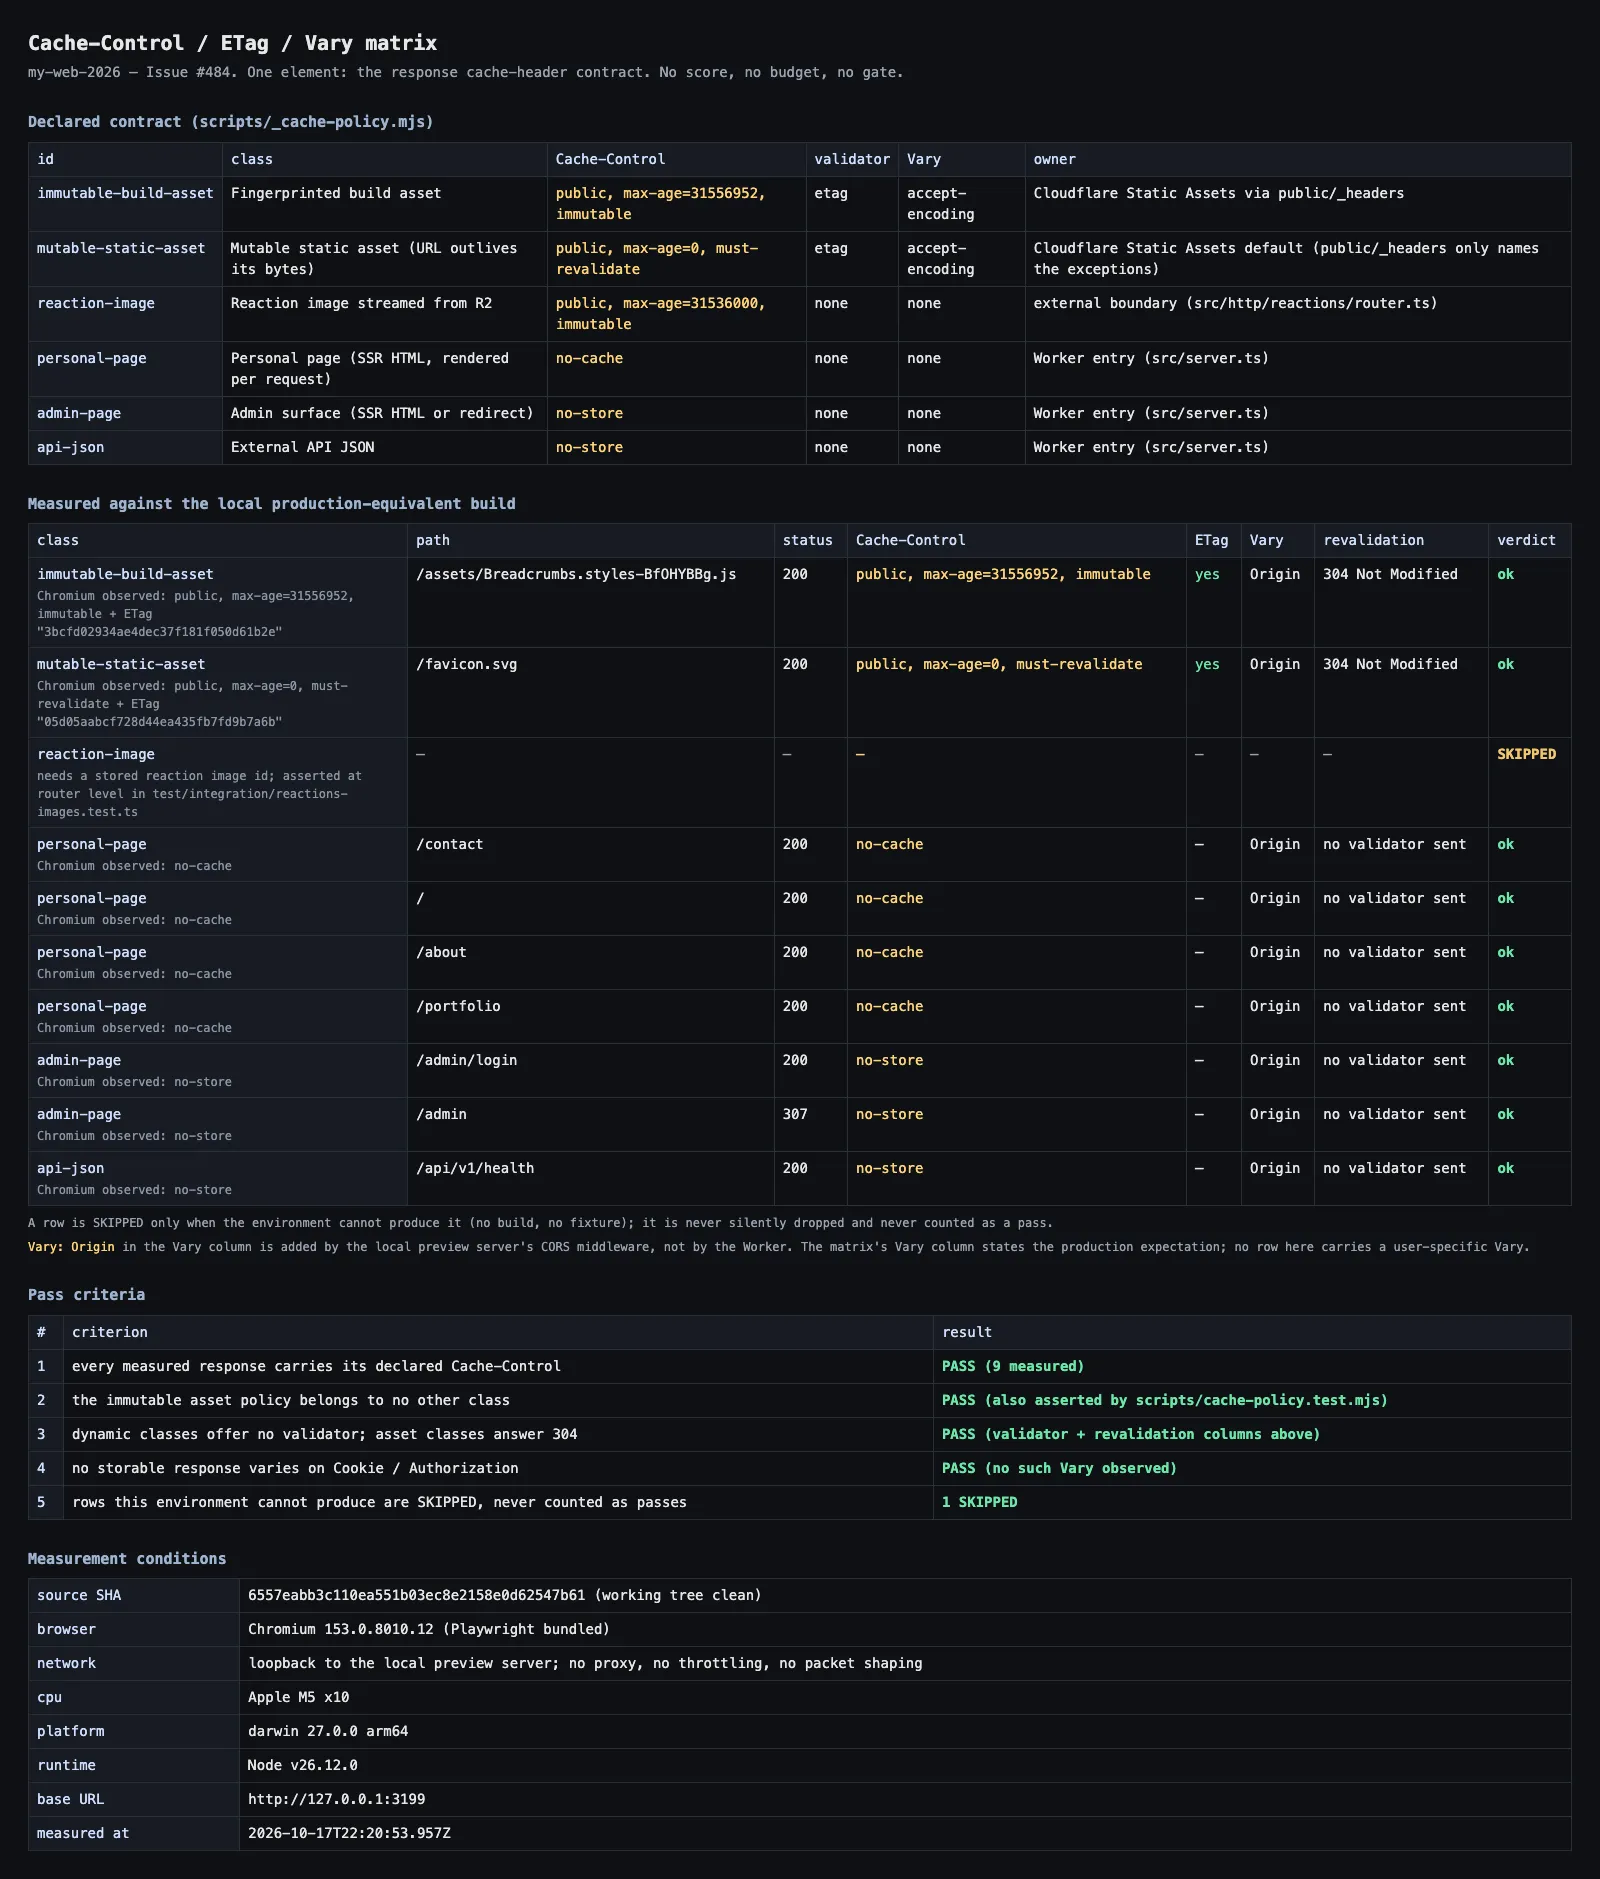
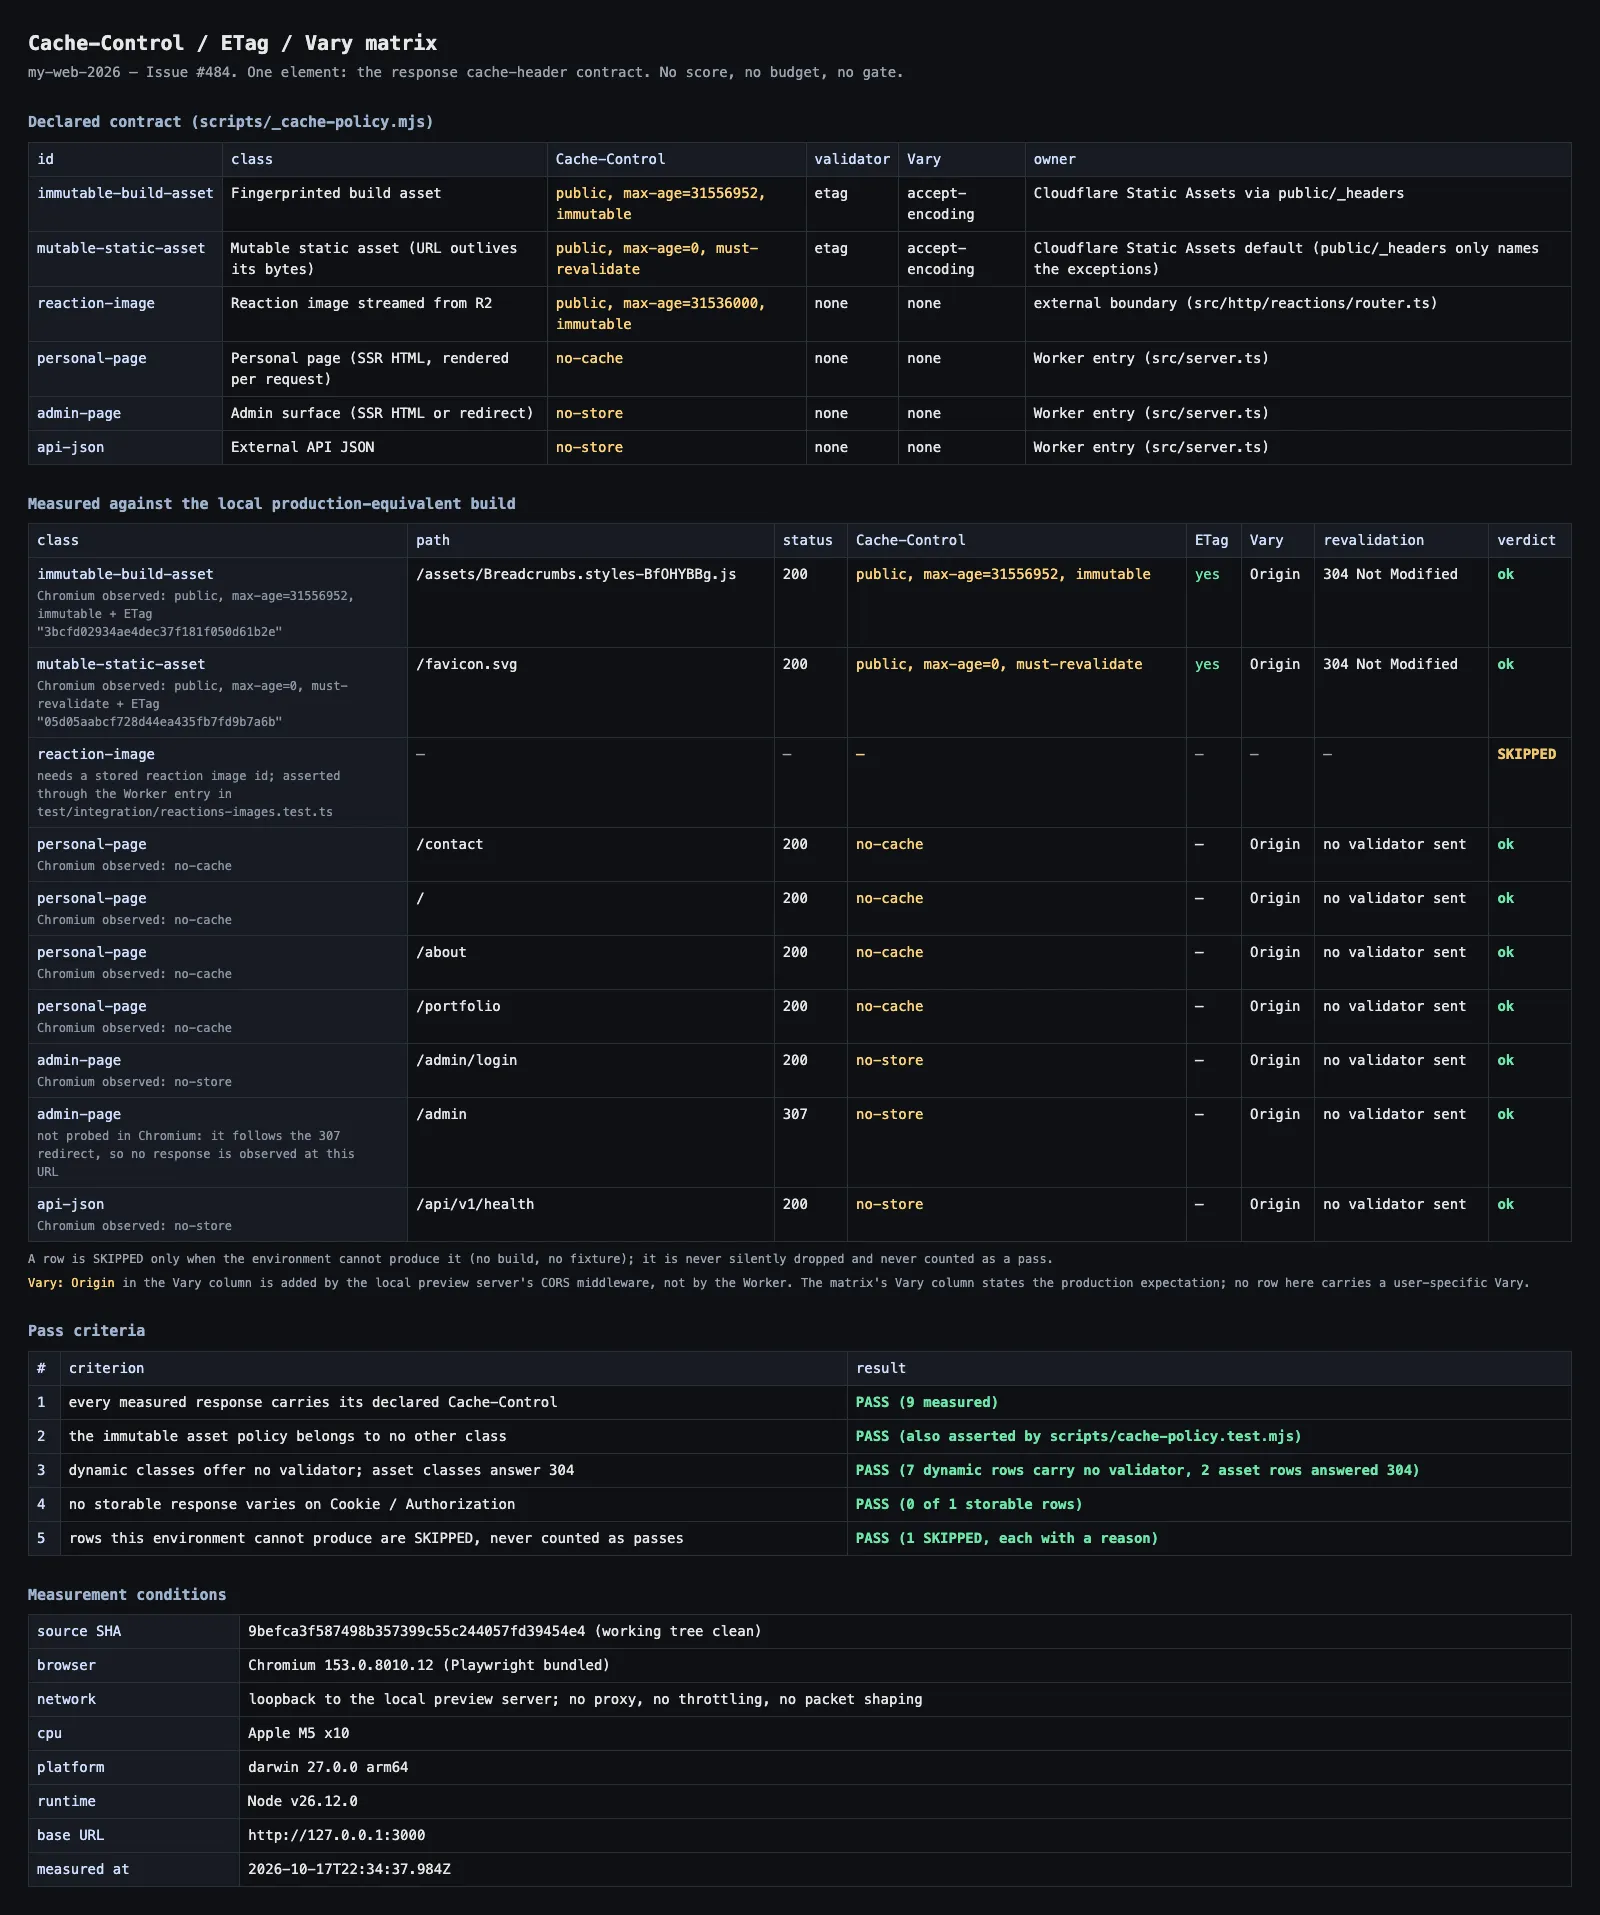
docs(verification): re-take the cache-header matrix report (#484)
The report renderer changed in the previous commit: criteria 3-5
are now computed from the measured rows instead of printing a
constant PASS, and the browser pass states why the 307 row was not
observed. The committed screenshot therefore showed a report this
code can no longer produce.

Re-measured against the same production-equivalent build with
`--verify` (9 measured / 0 failed / 1 skipped, criteria 1-5 all
derived and passing), captured at SHA 9befca3 with a clean tree.
Still WebP, still well under 300 KB.

diff --git a/docs/verification/perf/cache-headers-matrix.md b/docs/verification/perf/cache-headers-matrix.md
@@ -177,6 +177,10 @@ pnpm run cache:headers:measure -- --base-url=http://127.0.0.1:3000 \
 - レポート内の `source SHA` は**画像を commit する直前の HEAD** を指す。
   スクリーンショット自身を commit すると SHA が変わるため、記録と画像の間に
   1 commit のずれがある（これは避けられない連鎖であり、その旨を明記する）。
+  現在の画像は SHA `9befca3`（review 修正のコード commit）の clean ツリーで採取した。
+- 現在の画像が示す測定結果: **9 measured / 0 failed / 1 skipped**、
+  合格基準 1〜5 はすべて PASS。基準 3・4・5 は行から算出された値
+  （例: 「7 dynamic rows carry no validator, 2 asset rows answered 304」）。
 
 ### 5.1 測定できなかったもの（隠さない）
 
